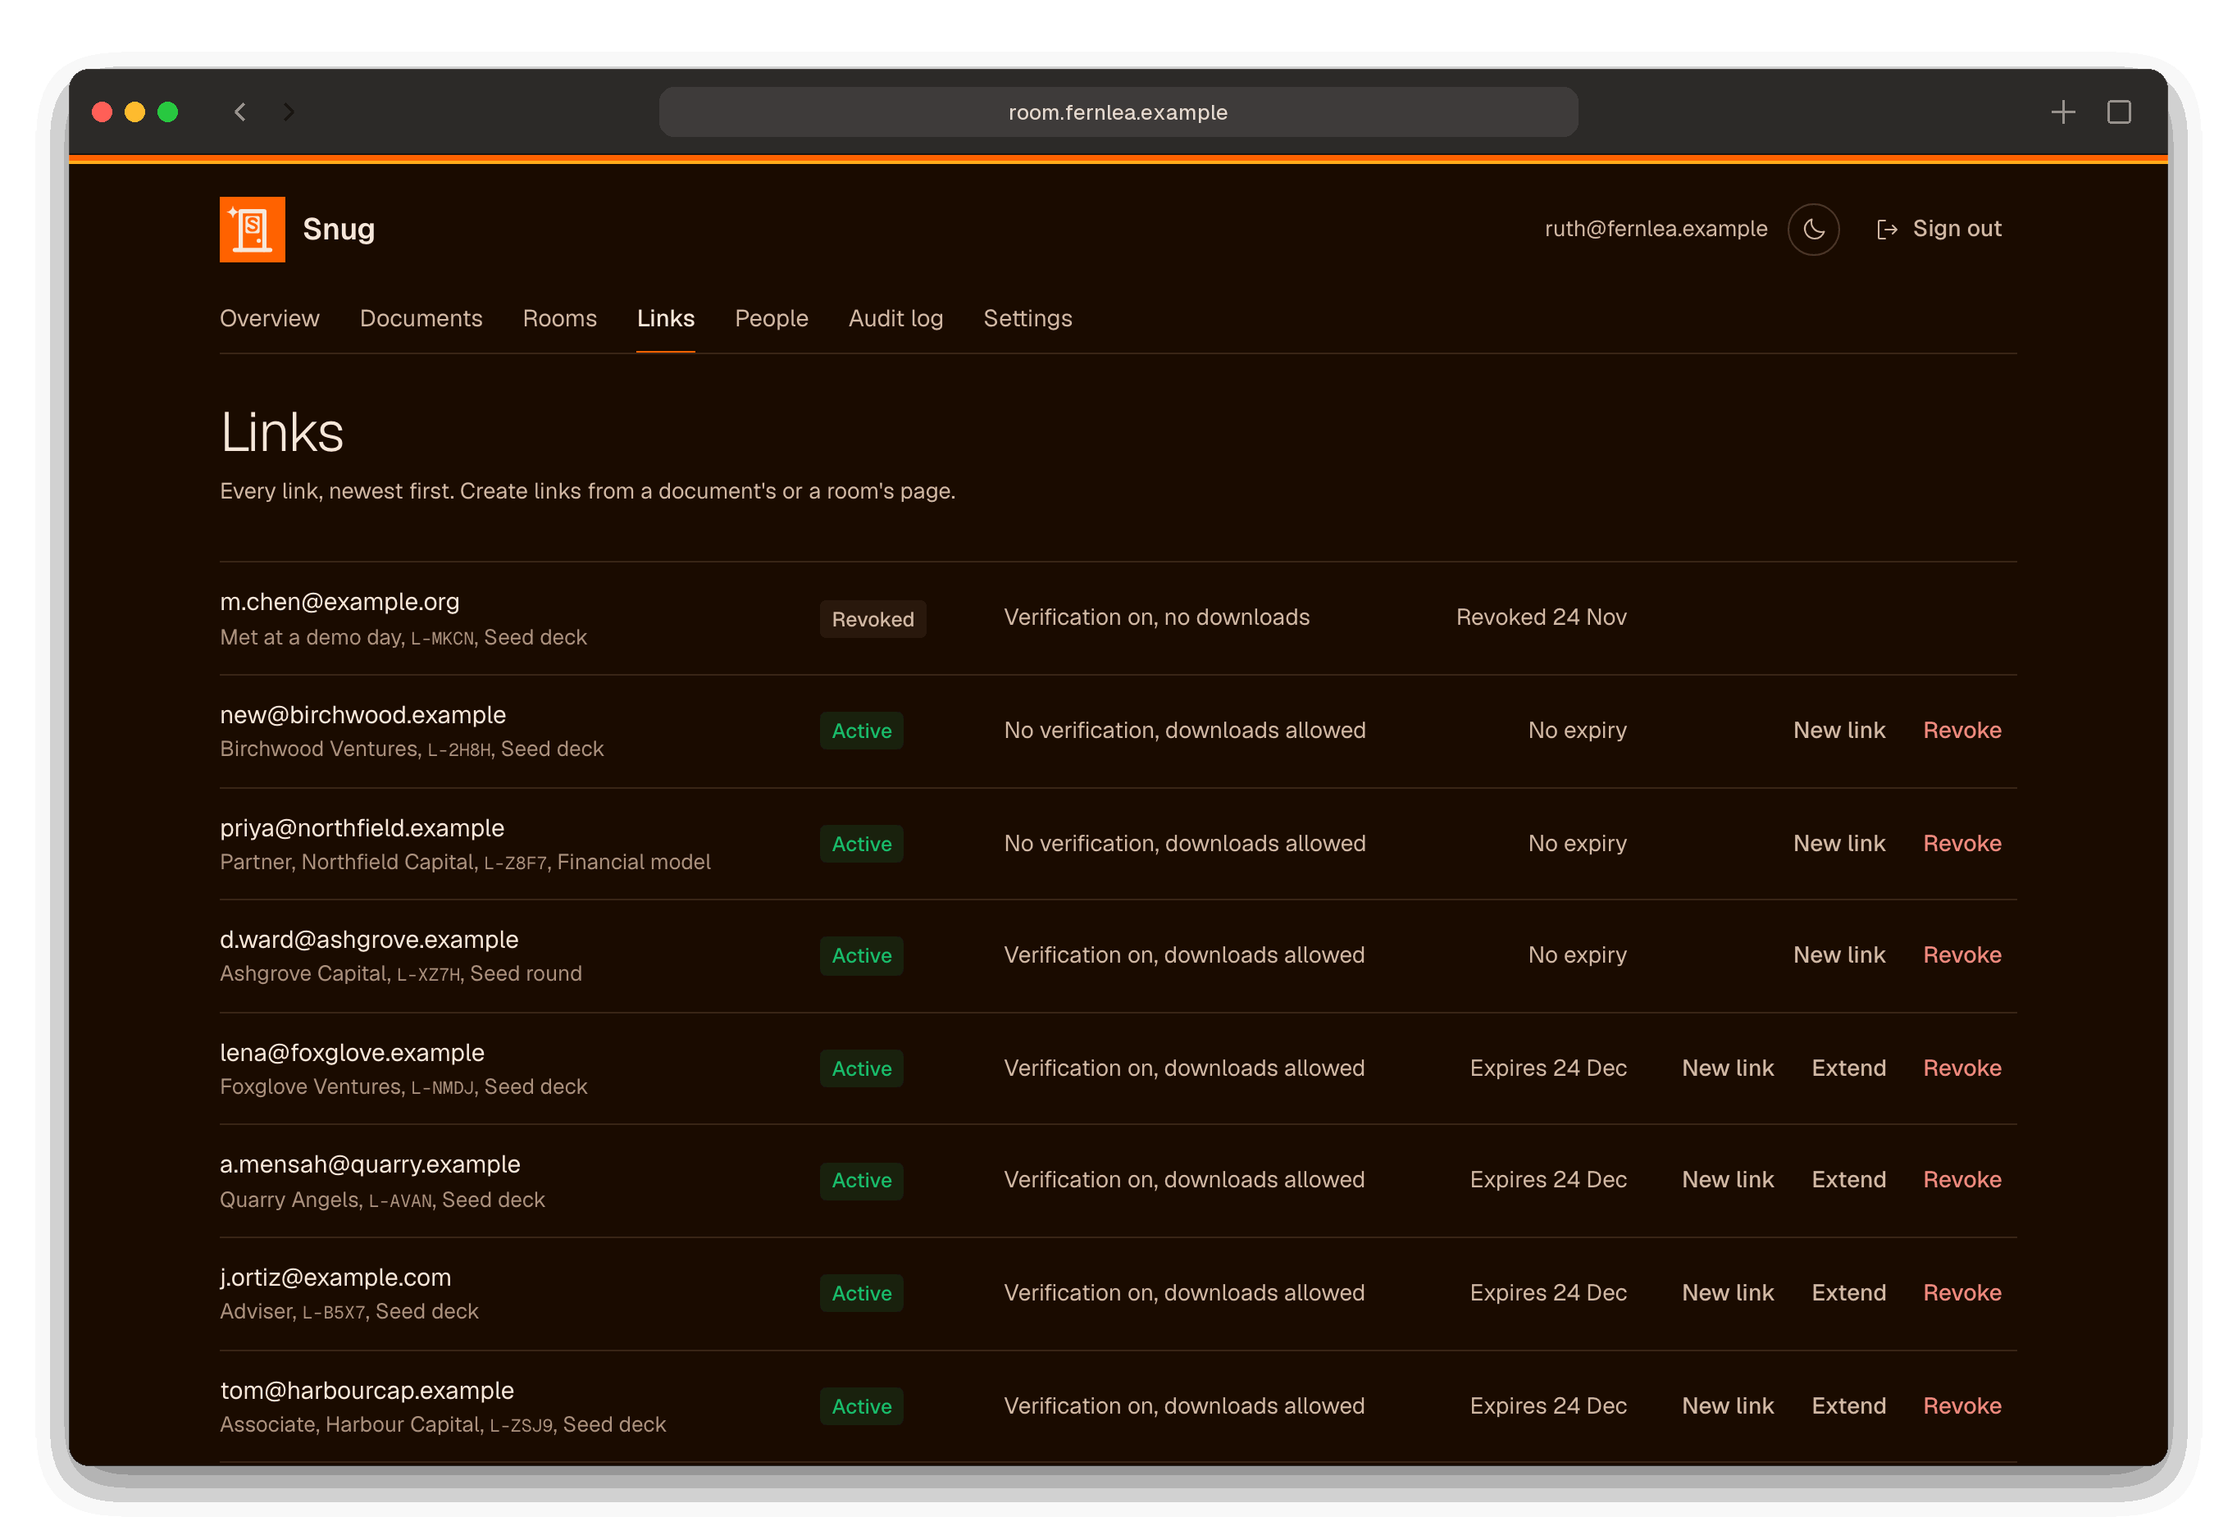
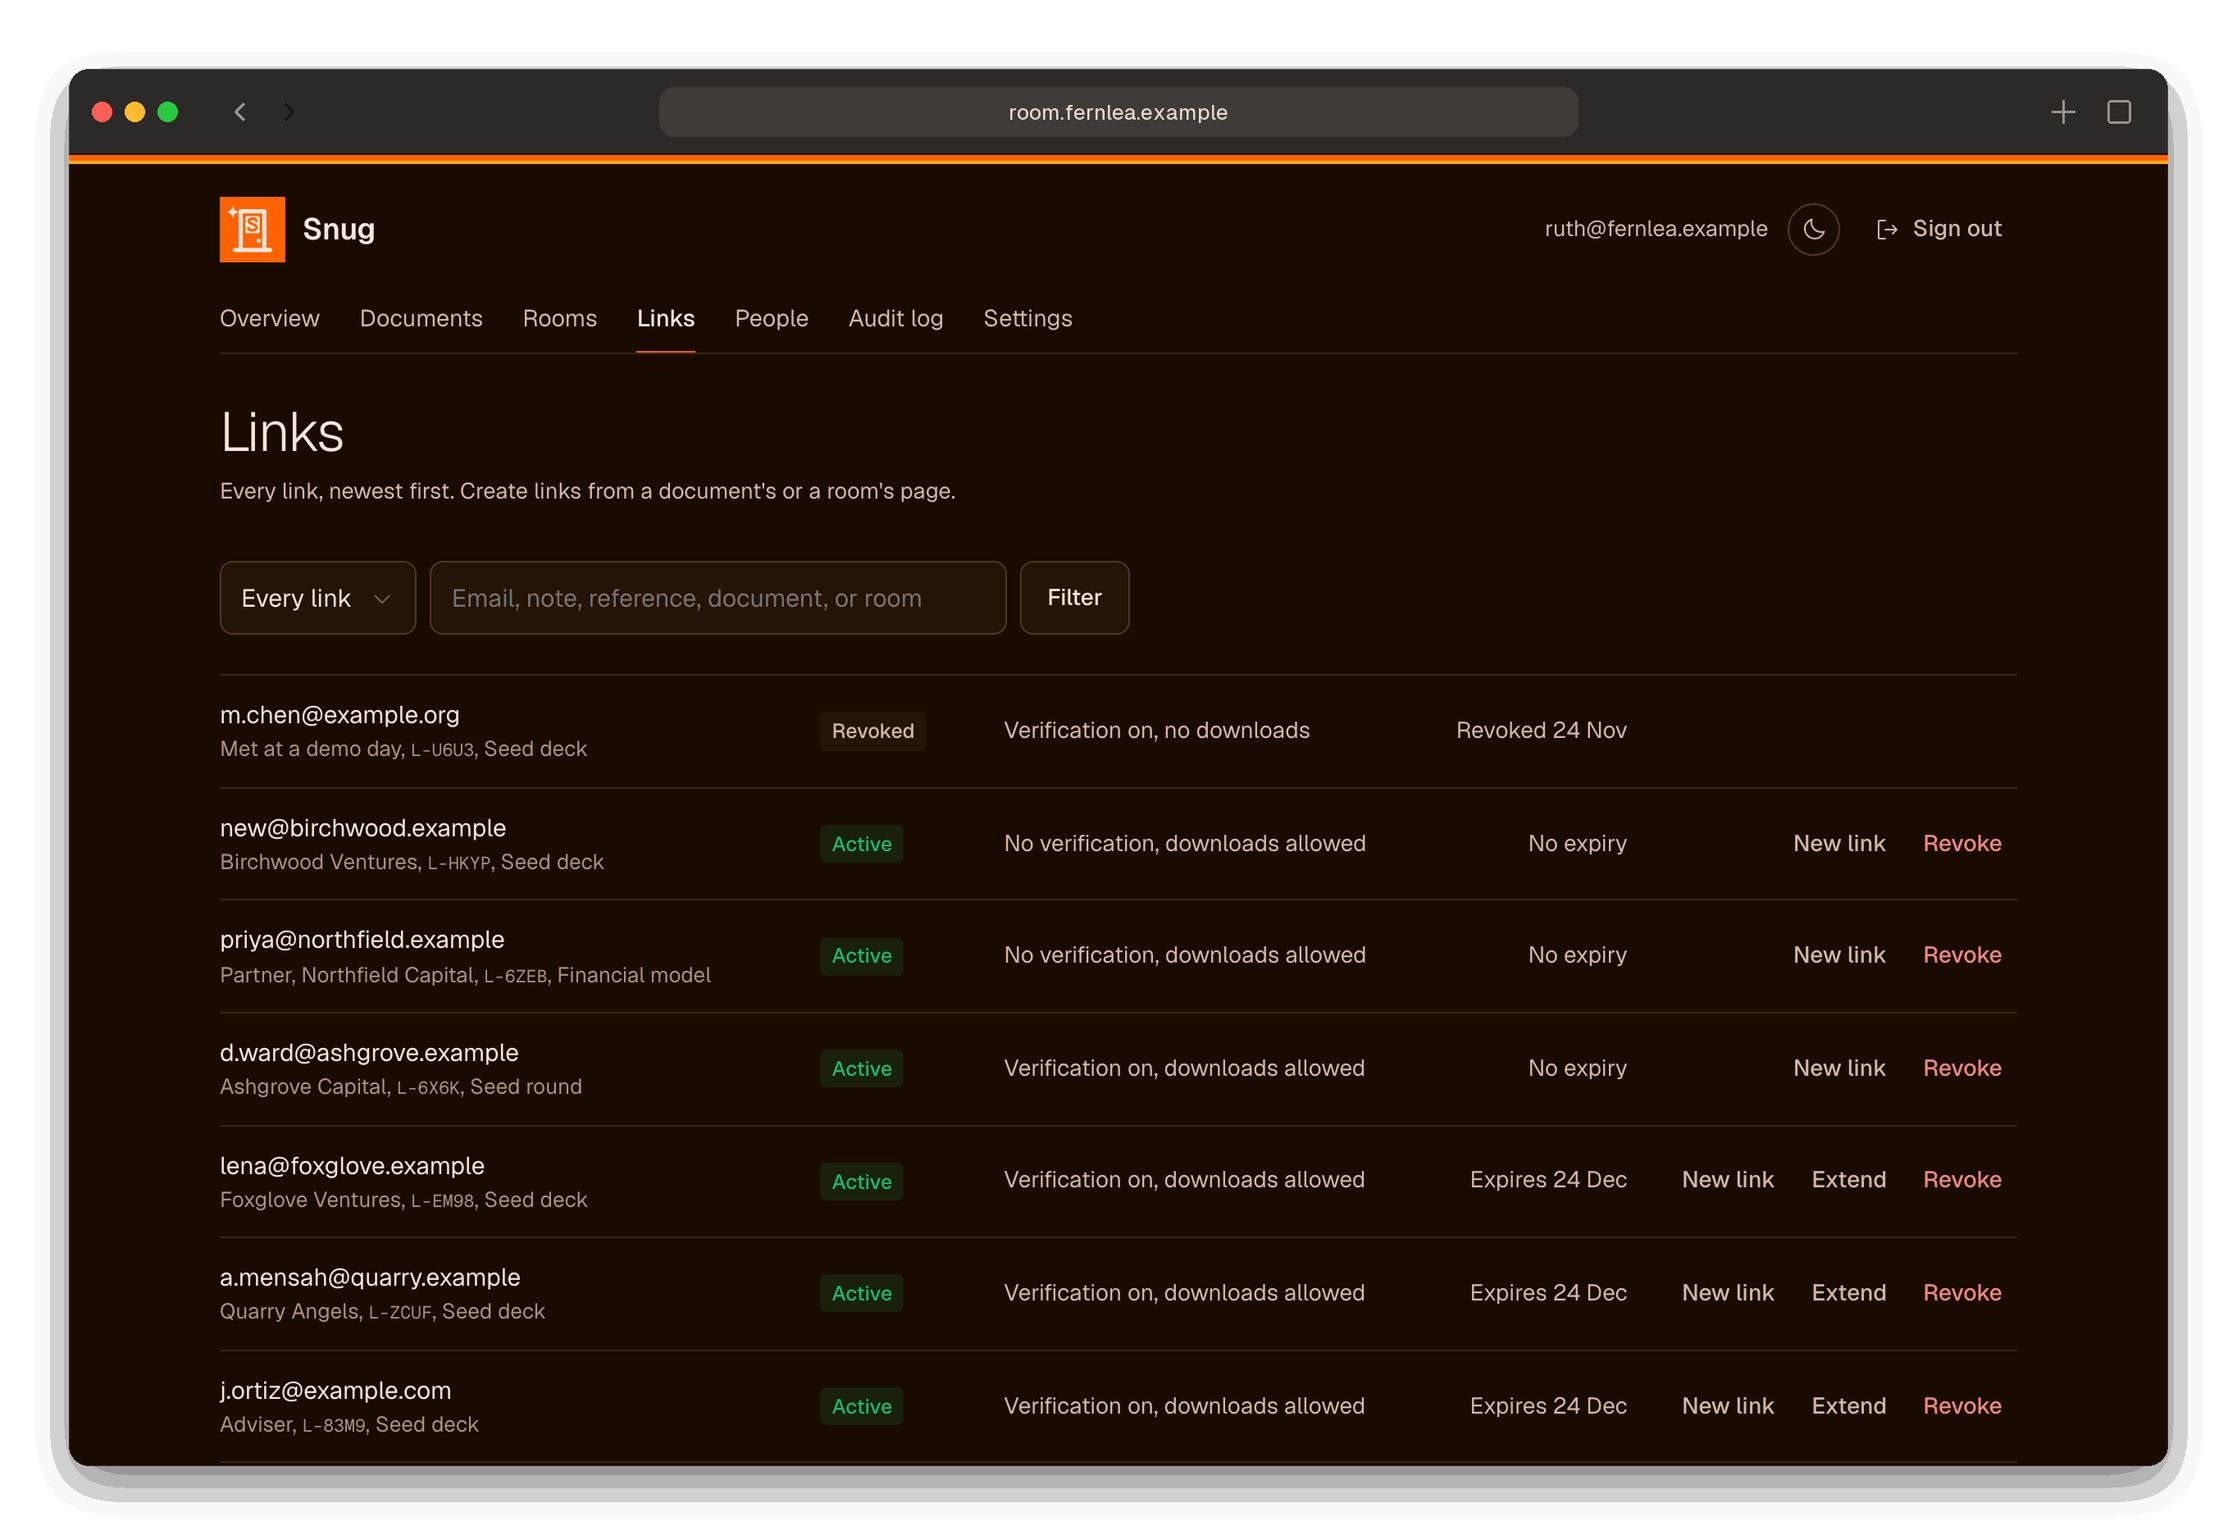
Add status and search filters to the Links page
A founder with many links can now show only active, expired, or revoked
ones, and search for part of an email address, a note, a reference, or
the title of the document or room a link shares. The filters are a plain
GET form, as on the audit log, so they need no script.

diff --git a/snug/templates/links/list.html b/snug/templates/links/list.html
@@ -2,5 +2,17 @@
 {% block title %}Snug links{% endblock %}
 {% block content %}
 <div class="title-row"><div><h1 class="page-title">Links</h1><div class="page-meta">Every link, newest first. Create links from a document's or a room's page.</div></div></div>
+<form class="filters" method="get" action="{% url 'links:list' %}">
+  <label class="visually-hidden" for="status">Status</label>
+  <select id="status" name="status"><option value="">Every link</option>{% for key, label in statuses %}<option value="{{ key }}"{% if key == status %} selected{% endif %}>{{ label }}</option>{% endfor %}</select>
+  <label class="visually-hidden" for="q">Search</label>
+  <input class="wide" id="q" name="q" type="search" placeholder="Email, note, reference, document, or room" value="{{ q }}">
+  <button class="btn" type="submit">Filter</button>
+  {% if filtered %}<a class="btn btn-quiet" href="{% url 'links:list' %}">Clear</a>{% endif %}
+</form>
+{% if filtered and not links %}
+<div class="empty"><h2>No links match that filter</h2></div>
+{% else %}
 {% include "links/_rows.html" with show_document=True %}
+{% endif %}
 {% endblock %}

diff --git a/snug/static/snug/css/snug.css b/snug/static/snug/css/snug.css
@@ -568,6 +568,7 @@ form.inline { display: inline; }
 .audit-rows .details { overflow-wrap: anywhere; font-size: 0.8rem; }
 .filters { display: flex; gap: 0.5rem; flex-wrap: wrap; margin-bottom: 1.5rem; }
 .filters select, .filters input { width: auto; }
+.filters input.wide { width: 22rem; max-width: 100%; }
 .pager { display: flex; gap: 1rem; align-items: center; justify-content: center; margin-top: 1.5rem; }
 .activity-rows .item { grid-template-columns: minmax(14rem, 1.3fr) minmax(12rem, 1.5fr) 6.5rem 7rem; }
 .what .note { display: block; font-size: 0.82rem; color: var(--text-3); }

diff --git a/tests/test_link_filters.py b/tests/test_link_filters.py
@@ -1,0 +1,112 @@
+"""Filters on the Links page: by status, and by a search (#152)."""
+
+from datetime import timedelta
+
+import pytest
+from django.test import Client
+from django.utils import timezone
+
+from snug.documents.models import Document
+from snug.links import service
+from snug.links.models import Link
+from snug.rooms.models import Room
+from tests.test_links import admin, client
+from tests.test_overview import make_link
+
+__all__ = ["admin", "client"]  # fixtures, used by name
+
+pytestmark = pytest.mark.django_db
+
+
+@pytest.fixture(autouse=True)
+def links() -> dict[str, Link]:
+    deck = Document.objects.create(title="Seed deck")
+    model = Document.objects.create(title="Financial model")
+    room = Room.objects.create(name="Series A room")
+    made = {
+        "active": make_link("priya@northfield.example", document=deck),
+        "room": make_link("sam@eastgate.example", room=room),
+        "expired": make_link("lena@foxglove.example", document=model),
+        "revoked": make_link("tom@harbourcap.example", document=deck),
+    }
+    made["room"].note = "Partner at Eastgate"
+    made["room"].save()
+    made["expired"].expires_at = timezone.now() - timedelta(days=1)
+    made["expired"].save()
+    service.revoke(made["revoked"], by=None)
+    return made
+
+
+def shown(client: Client, query: str = "") -> set[str]:
+    page = client.get(f"/admin/links/{query}", secure=True).content.decode()
+    emails = (
+        "priya@northfield.example",
+        "sam@eastgate.example",
+        "lena@foxglove.example",
+        "tom@harbourcap.example",
+    )
+    return {email for email in emails if email in page}
+
+
+ALL = {
+    "priya@northfield.example",
+    "sam@eastgate.example",
+    "lena@foxglove.example",
+    "tom@harbourcap.example",
+}
+
+
+def test_every_link_is_listed_without_a_filter(client: Client) -> None:
+    assert shown(client) == ALL
+    assert shown(client, "?status=&q=") == ALL
+
+
+@pytest.mark.parametrize(
+    ("status", "emails"),
+    [
+        ("active", {"priya@northfield.example", "sam@eastgate.example"}),
+        ("expired", {"lena@foxglove.example"}),
+        ("revoked", {"tom@harbourcap.example"}),
+        ("nonsense", ALL),
+    ],
+)
+def test_links_are_filtered_by_status(client: Client, status: str, emails: set[str]) -> None:
+    assert shown(client, f"?status={status}") == emails
+
+
+@pytest.mark.parametrize(
+    ("query", "emails"),
+    [
+        ("northfield", {"priya@northfield.example"}),  # part of an address
+        ("EASTGATE", {"sam@eastgate.example"}),  # any case
+        ("partner at", {"sam@eastgate.example"}),  # the note
+        ("seed deck", {"priya@northfield.example", "tom@harbourcap.example"}),  # a document
+        ("series a", {"sam@eastgate.example"}),  # a room
+        ("nobody", set()),
+    ],
+)
+def test_links_are_found_by_a_search(client: Client, query: str, emails: set[str]) -> None:
+    assert shown(client, f"?q={query}") == emails
+
+
+def test_a_link_is_found_by_its_reference(client: Client, links: dict[str, Link]) -> None:
+    ref = links["expired"].ref
+    assert shown(client, f"?q={ref.lower()}") == {"lena@foxglove.example"}
+    assert shown(client, f"?q=L-{ref}") == {"lena@foxglove.example"}
+
+
+def test_status_and_search_combine(client: Client) -> None:
+    assert shown(client, "?status=active&q=seed") == {"priya@northfield.example"}
+
+
+def test_the_form_keeps_what_was_chosen(client: Client) -> None:
+    page = client.get("/admin/links/?status=revoked&q=harbour", secure=True).content.decode()
+    assert '<option value="revoked" selected>' in page
+    assert 'value="harbour"' in page
+    assert 'href="/admin/links/">Clear</a>' in page
+
+
+def test_no_match_says_so(client: Client) -> None:
+    page = client.get("/admin/links/?q=nobody", secure=True).content.decode()
+    assert "No links match that filter" in page
+    assert "No links yet" not in page

diff --git a/snug/links/views.py b/snug/links/views.py
@@ -10,6 +10,7 @@ from django.conf import settings
 from django.contrib.auth.decorators import login_required
 from django.core.exceptions import ValidationError
 from django.core.validators import validate_email
+from django.db.models import Q
 from django.http import HttpRequest, HttpResponse
 from django.shortcuts import get_object_or_404, redirect, render
 from django.urls import reverse
@@ -31,6 +32,8 @@ from snug.rooms.models import Room
 ISSUED = "snug.issued_link"
 ISSUED_COOKIE = f"{'__Host-' if settings.CONFIG.https else ''}snug-issued"
 ISSUED_SECONDS = 300
+# The Links page's status filter: value and label.
+STATUSES = (("active", "Active"), ("expired", "Expired"), ("revoked", "Revoked"))
 
 
 def _admin(request: HttpRequest) -> Admin:
@@ -282,7 +285,36 @@ def link_issued(request: HttpRequest) -> HttpResponse:
 @require_safe
 def link_list(request: HttpRequest) -> HttpResponse:
     links = Link.objects.select_related("document", "room")
-    return render(request, "links/list.html", {"tab": "links", "links": links})
+    now = timezone.now()
+    status = request.GET.get("status", "")
+    live = Q(expires_at__isnull=True) | Q(expires_at__gt=now)
+    if status == "active":
+        links = links.filter(live, revoked_at__isnull=True)
+    elif status == "expired":
+        links = links.filter(revoked_at__isnull=True, expires_at__lte=now)
+    elif status == "revoked":
+        links = links.filter(revoked_at__isnull=False)
+    else:
+        status = ""
+    query = " ".join(request.GET.get("q", "").split())[:254]
+    if query:
+        ref = query.upper().removeprefix("L-")
+        links = links.filter(
+            Q(email__icontains=query)
+            | Q(note__icontains=query)
+            | Q(ref=ref)
+            | Q(document__title__icontains=query)
+            | Q(room__name__icontains=query)
+        )
+    context = {
+        "tab": "links",
+        "links": links,
+        "status": status,
+        "q": query,
+        "statuses": STATUSES,
+        "filtered": bool(status or query),
+    }
+    return render(request, "links/list.html", context)
 
 
 def _confirm(request: HttpRequest, ref: str, action: str) -> tuple[Link, HttpResponse | None]:

diff --git a/tests/e2e/test_admin_pages.py b/tests/e2e/test_admin_pages.py
@@ -184,6 +184,36 @@ def test_a_link_is_extended_from_the_links_page(live_server: Any, page: Page) ->
     assert Link.find(issued.token) is not None
 
 
+def test_links_are_filtered_from_the_links_page(live_server: Any, page: Page) -> None:
+    from snug.documents.models import Document
+    from snug.links import service
+
+    deck = Document.objects.create(title="Seed deck")
+    fields: dict[str, Any] = {
+        "note": "",
+        "expires_at": None,
+        "require_verification": True,
+        "allow_download": True,
+        "created_by": None,
+    }
+    service.create(document=deck, email="priya@northfield.example", **fields)
+    gone = service.create(document=deck, email="tom@harbourcap.example", **fields)
+    service.revoke(gone.link, by=None)
+    sign_in(live_server, page)
+    page.goto(f"{live_server.url}/admin/links/")
+    rows = page.locator(".link-rows .item")
+    expect(rows).to_have_count(2)
+    page.get_by_label("Status").select_option("revoked")
+    page.get_by_role("button", name="Filter").click()
+    expect(rows).to_have_count(1)
+    expect(rows.first).to_contain_text("tom@harbourcap.example")
+    page.get_by_role("link", name="Clear").click()
+    page.get_by_label("Search").fill("northfield")
+    page.get_by_label("Search").press("Enter")
+    expect(rows).to_have_count(1)
+    expect(rows.first).to_contain_text("priya@northfield.example")
+
+
 # ---------------------------------------------------------------- upload progress
 
 

diff --git a/docs/design.md b/docs/design.md
@@ -188,7 +188,7 @@ Each page has its own URL, with no hash routing, because every action is a CSRF-
   - Below the chart, in two columns: the first page as the server renders it (a video's player, or an Office file's *Preview* panel); and *Upload a new version*, *Versions* with each upload's file name, and *Rename*.
   - **Links** as plain rows, with *New link* and *Revoke* where they apply.
 - **Rooms.** A list, and for each room its documents, under folder headings with a folder icon, its links, and five tools in a two-column grid: add a document already uploaded, add a folder, the NDA switch, the UK-only switch, and rename.
-- **Links.** Every link, newest first: recipient, note, reference, target, status, its settings (verification, downloads, UK only), and expiry. Revoking and sending a new link each go through a confirmation page that shows the recipient. *Extend*, for a link with an expiry, moves it to a later day or removes it, keeping the same URL, and brings an expired link back. It is audited as `link.extended`.
+- **Links.** Every link, newest first: recipient, note, reference, target, status, its settings (verification, downloads, UK only), and expiry. Filters above the list, as on the audit log: a status (active, expired, or revoked), and a search over the address, note, reference, and the document's or room's title. Revoking and sending a new link each go through a confirmation page that shows the recipient. *Extend*, for a link with an expiry, moves it to a later day or removes it, keeping the same URL, and brings an expired link back. It is audited as `link.extended`.
 - **People.** One row per viewer email address, with everything that person has opened across the instance, using the same page strips (a video's cells are its 10-second parts; an Office file without a preview has one cell, shaded by the time its card was open). Each document row also shows how many times that person downloaded it, and the person's summary line gives their total when it is above zero. The counts come from the audit log's download events, which outlast reading data, so only documents the person is still shown reading are counted.
 - **Audit log.** A dense, filterable table and a CSV export.
 - **Settings.**

diff --git a/docs/using-snug.md b/docs/using-snug.md
@@ -80,7 +80,7 @@ Each link is for one person. On a document's page, choose *New link*, and fill i
 
 *Create and email* sends it; *Create and copy* shows the link once, to send yourself. If it is lost, send a new link.
 
-*Links* lists every link, newest first. *Revoke* stops a link at once, even for someone reading it at the time. *New link* replaces it with a fresh one for the same person, with the same settings and history. *Extend* gives a link with an expiry a later last day, or none, and the same link keeps working. It also makes an expired link work again.
+*Links* lists every link, newest first. To find one, choose a status (active, expired, or revoked), or search for part of an email address, a note, a reference such as L-7KQ4, or a document's or room's title, then choose *Filter*. *Revoke* stops a link at once, even for someone reading it at the time. *New link* replaces it with a fresh one for the same person, with the same settings and history. *Extend* gives a link with an expiry a later last day, or none, and the same link keeps working. It also makes an expired link work again.
 
 <picture>
   <source media="(prefers-color-scheme: dark)" srcset="images/screenshots/links-dark.png">

diff --git a/CHANGELOG.md b/CHANGELOG.md
@@ -6,6 +6,7 @@ All notable changes to Snug are recorded here. The format follows [Keep a Change
 
 ### Added
 
+- The Links page has filters: by status, and by a search over the email address, note, reference, and the document's or room's title.
 - *Extend*, beside *Revoke* on a link, gives it a later last day, or no expiry, and keeps the same link working, so you no longer have to send a new link to give someone more time. It also makes an expired link work again. Each extension is in the audit log.
 
 ## [1.2.0] - 2026-11-23
